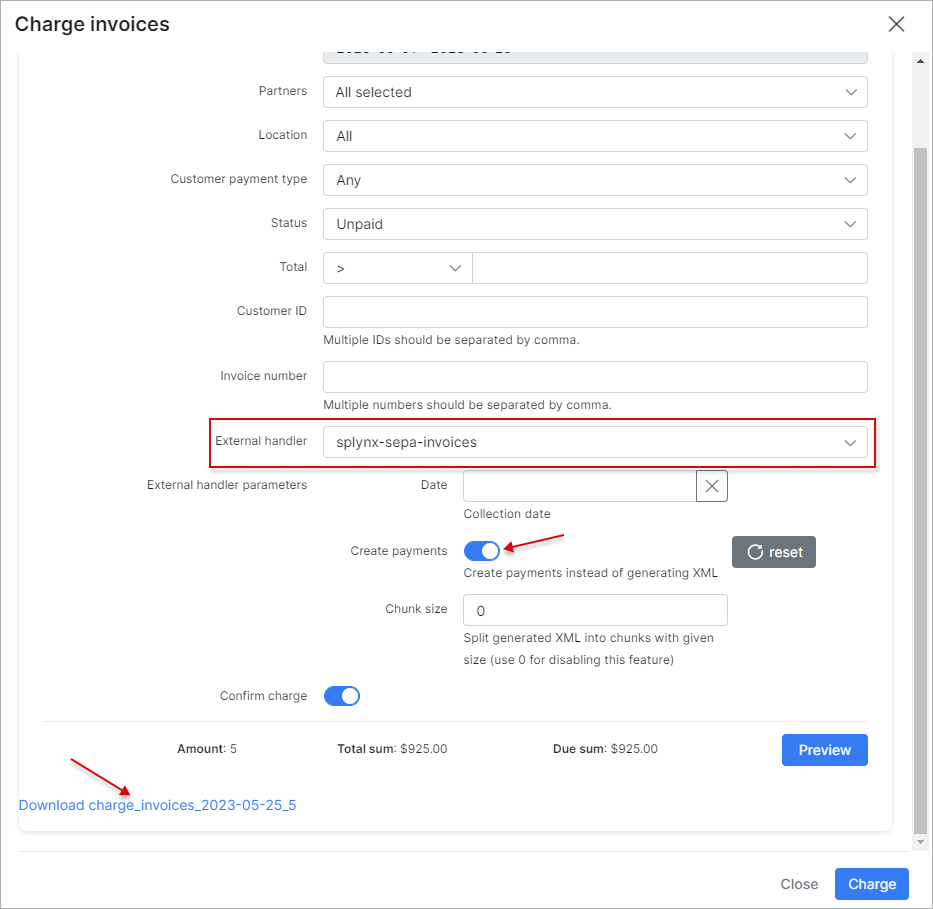
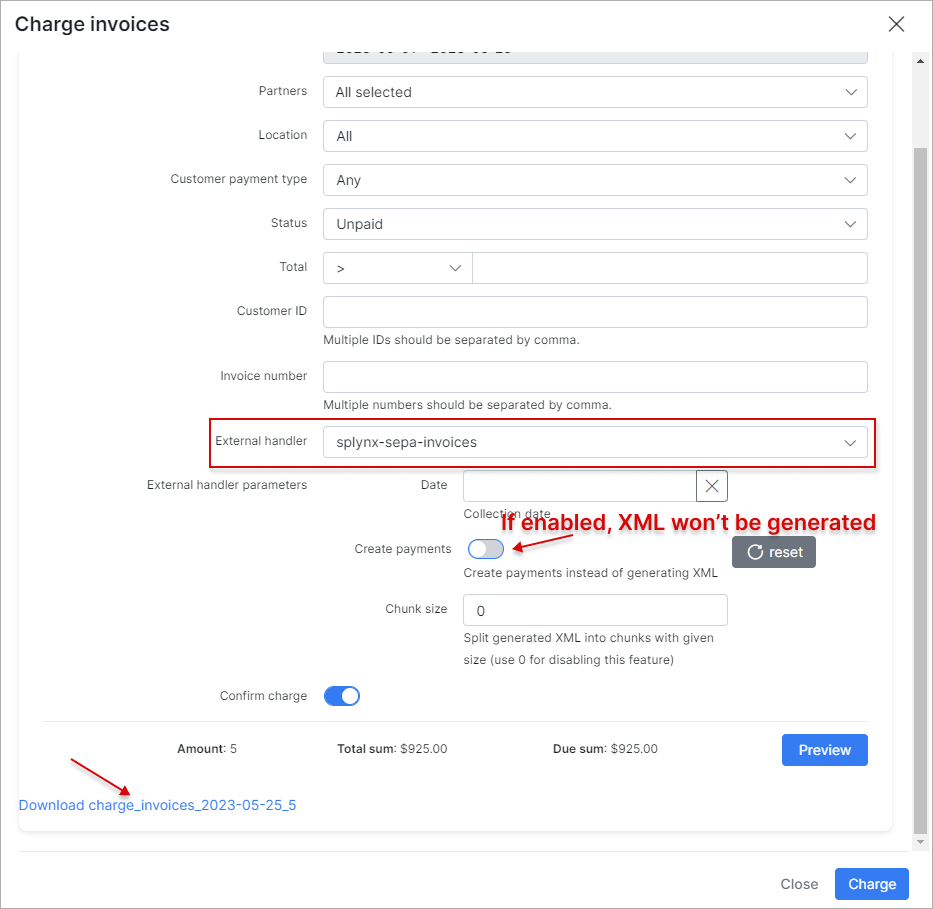
sepacbi

Changed region(s): [[0.373, 0.5545, 0.9325, 0.6161]]

diff --git a/files/en/payment_systems/payment_systems.md b/files/en/payment_systems/payment_systems.md
@@ -16,7 +16,6 @@ Below is a list of supported and integrated Payment Gateways. By clicking on a P
 * [IPpay](payment_systems/ippay/ippay.md)
 
 * [Moneris (recurring billing) payments](payment_systems/moneris/moneris.md)
-[comment]: # (→ Mercadopago)
 
 * [Netcash Pay Now](payment_systems/netcash_pay_now/netcash_pay_now.md)
 
@@ -33,7 +32,8 @@ Below is a list of supported and integrated Payment Gateways. By clicking on a P
 * [Safaricom M-PESA](payment_systems/mpesa/mpesa.md)
 
 * [SEPA debit orders](payment_systems/sepa/sepa.md)
-[comment]: # (→ SEPA debit order in Spanish)
+
+* [SEPA CBI](payment_systems/sepa_cbi/sepa_cbi.md)
 
 * [Stripe](payment_systems/stripe/stripe.md)
 

diff --git a/files/en/payment_systems/sepa_cbi/sepa_cbi.md b/files/en/payment_systems/sepa_cbi/sepa_cbi.md
@@ -42,3 +42,24 @@ Locate or search for the "splynx_sepa_cbi_addon" and click on the *Edit* <icon c
 ![](settings2.png)
 ![](settings3.png)
 
+**Customer’s IBAN**, **Mandate date**, **Mandate ID**, and **Sequence state (only FRST or RCUR)** can be set in the customer profile (see below):
+
+![add_iban.png](add_iban.png)
+
+![add_iban1.png](add_iban1.png)
+
+## Generate the XML file for the bank
+
+Navigate to *Finance → Invoces* and click on the `Charge` button:
+
+![charge.png](charge_btn.png)
+
+![116.png](charge1.png)
+
+After clicking `Charge` you will see a download xml document link.
+
+![charge2.png](charge2.png)
+
+## Check invoices
+
+![121.png](paid-invoice.png)

diff --git a/files/en/index.md b/files/en/index.md
@@ -429,6 +429,7 @@ Table of contents
   * [Netcash Pay Now](payment_systems/netcash_pay_now/netcash_pay_now.md)
   * [Netcash Debit orders](payment_systems/netcash_do/netcash_do.md)
   * [SEPA debit orders](payment_systems/sepa/sepa.md)
+  * [SEPA CBI](payment_systems/sepa_cbi/sepa_cbi.md)
   * [Stripe online payments](payment_systems/stripe/stripe.md)
   * [VulaCoin](payment_systems/vulacoin/vulacoin.md)
 
